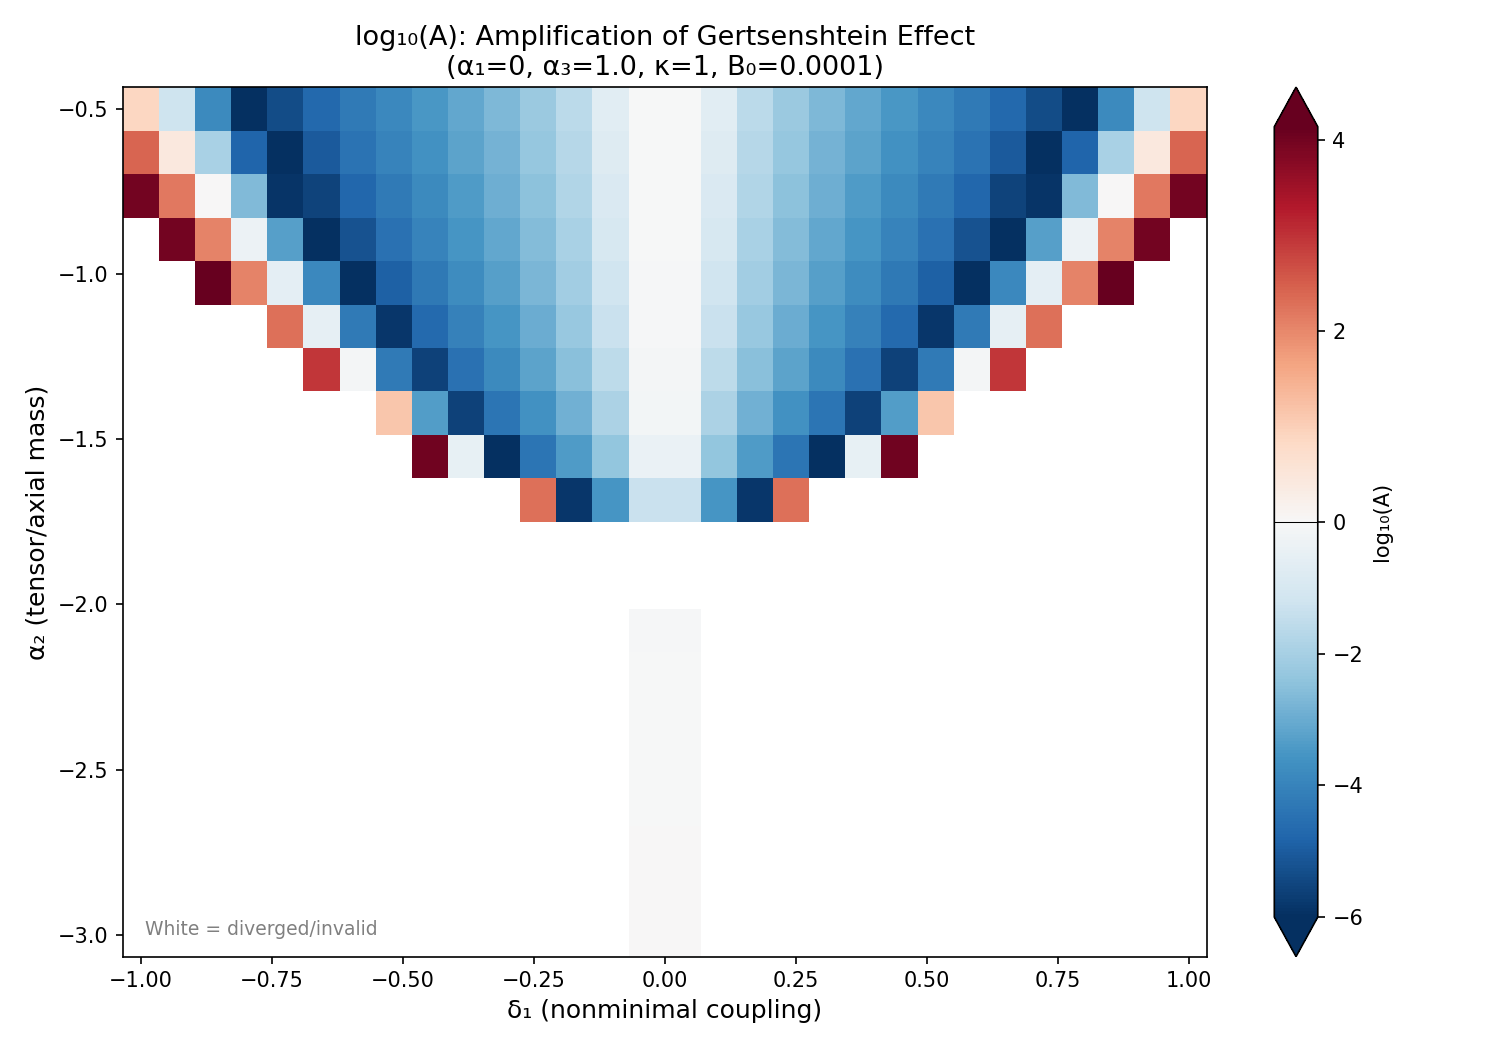
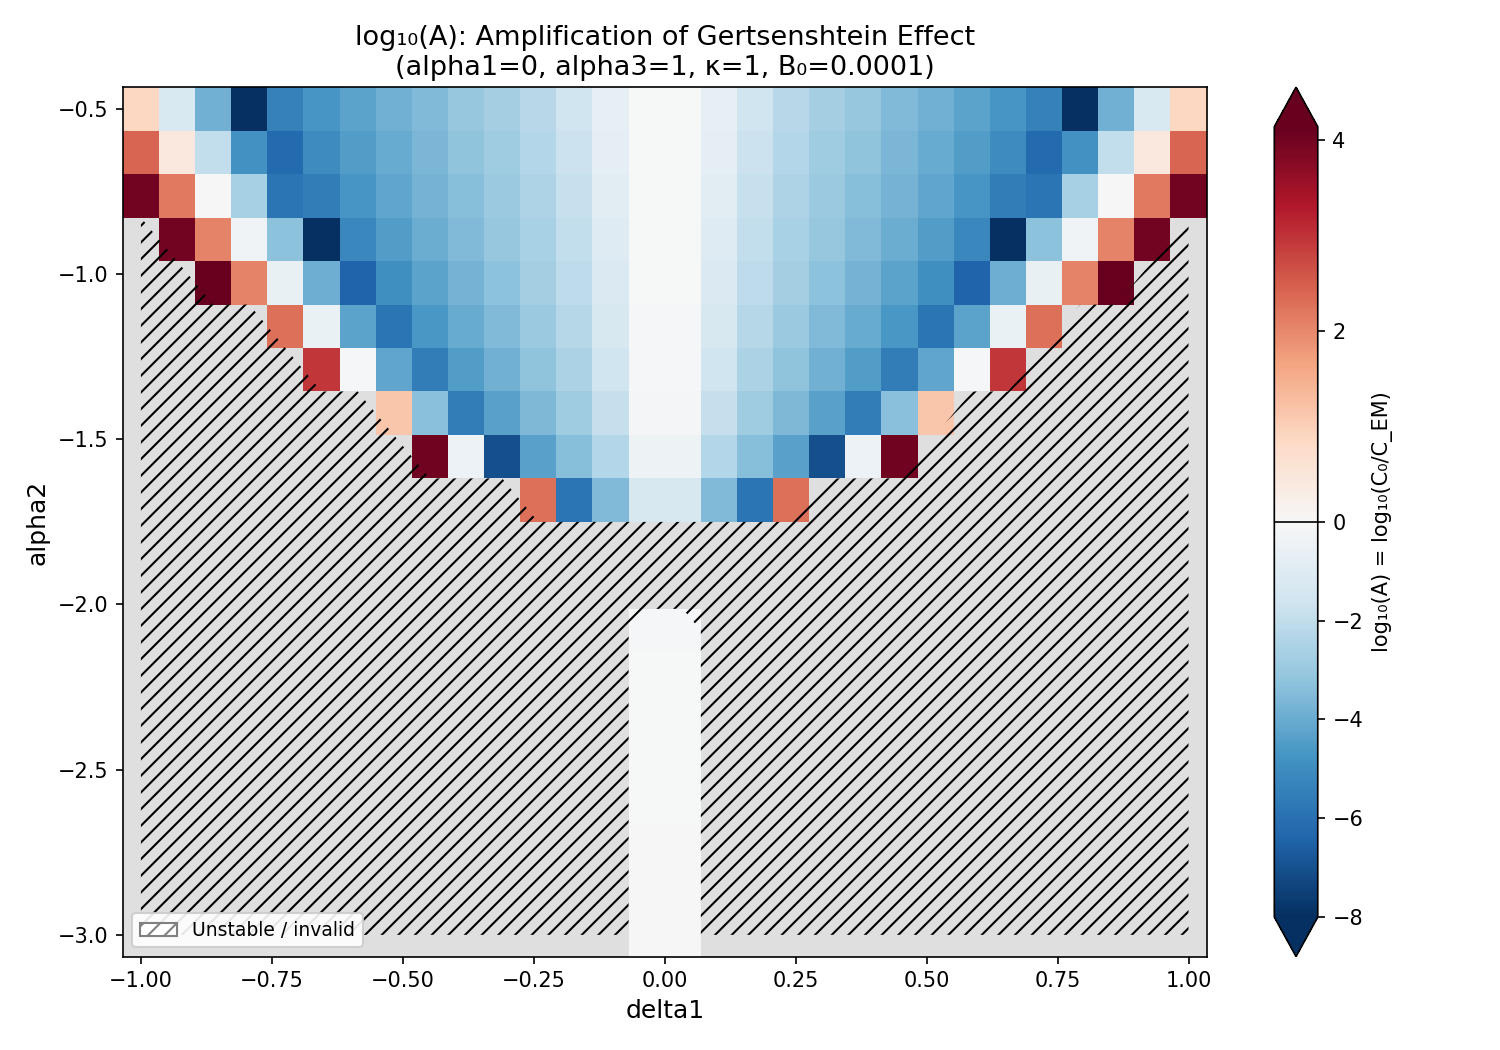
feat: hatched unstable regions in amplification heatmaps (#235)
plot_amplification_heatmap.py generates publication-quality heatmaps:
- RdBu_r divergent colormap centered on log10(A)=0 (A=1 baseline)
- Diagonal hatching (///) marks unstable/diverged/invalid regions
- Clear visual distinction from the A=1 white baseline
- Automatically reads sweep.json for parameter metadata
- Filters P > 0.1 as invalid (outside linear regime)

diff --git a/examples/torsion_gertsenshtein/plot_amplification_heatmap.py b/examples/torsion_gertsenshtein/plot_amplification_heatmap.py
@@ -1,0 +1,207 @@
+#!/usr/bin/env python3
+"""Generate amplification heatmap with stability boundary hatching.
+
+Produces a 2D heatmap of log₁₀(A) = log₁₀(C₀/C_EM) where:
+  A > 1 (red): torsion amplifies the Gertsenshtein effect
+  A = 1 (white): standard GR baseline
+  A < 1 (blue): torsion suppresses the Gertsenshtein effect
+  Hatched grey: unstable/diverged parameters (instability region)
+
+Usage:
+  python plot_amplification_heatmap.py <results_dir> [output.png]
+"""
+
+import csv
+import math
+import sys
+from pathlib import Path
+
+import matplotlib as mpl
+import numpy as np
+
+mpl.use("Agg")
+import contextlib
+
+import matplotlib.pyplot as plt
+from matplotlib.colors import TwoSlopeNorm
+from matplotlib.patches import Patch
+
+
+def main() -> None:
+    results_dir = Path(sys.argv[1])
+    output = sys.argv[2] if len(sys.argv) > 2 else str(results_dir / "heatmap_A.png")
+
+    csv_path = results_dir / "results.csv"
+    with Path(csv_path).open(encoding="utf-8") as f:
+        rows = list(csv.DictReader(f))
+
+    # Detect swept parameters (exactly 2 expected)
+    # Read sweep.json for parameter names
+    import json
+
+    with Path(results_dir / "sweep.json").open(encoding="utf-8") as f:
+        sweep_meta = json.load(f)
+
+    swept = sweep_meta.get("swept_parameters", sweep_meta.get("swept_params", {}))
+    param_names = list(swept.keys())
+    if len(param_names) != 2:
+        print(f"Expected 2 swept params, got {len(param_names)}: {param_names}")
+        sys.exit(1)
+
+    p1_name, p2_name = param_names
+
+    # Extract B0 from fixed params
+    fixed = {}
+    for r in rows[:1]:
+        for k, v in r.items():
+            if k not in {
+                p1_name,
+                p2_name,
+                "P_max",
+                "P_final",
+                "P_max_time",
+                "run_status",
+                "error_message",
+                "solver_exit_code",
+                "wall_time_s",
+                "grid_shape",
+                "t_end",
+                "dt",
+                "scheme",
+                "bc",
+                "C0",
+                "A",
+                "log10_A",
+                "P_valid",
+            }:
+                with contextlib.suppress(ValueError, TypeError):
+                    fixed[k] = float(v)
+    B0 = fixed.get("B0", 0.0001)
+    kappa = fixed.get("kappa", 1.0)
+    t_end = fixed.get("t_end", 50.0)
+    P_EM = math.sin(kappa * B0 * t_end / 2) ** 2
+
+    # Build grid
+    p1_vals = sorted({float(r[p1_name]) for r in rows})
+    p2_vals = sorted({float(r[p2_name]) for r in rows})
+    p1_idx = {v: i for i, v in enumerate(p1_vals)}
+    p2_idx = {v: i for i, v in enumerate(p2_vals)}
+    n1, n2 = len(p1_vals), len(p2_vals)
+
+    log10_A_grid = np.full((n2, n1), np.nan)
+    diverged_grid = np.zeros((n2, n1), dtype=bool)
+
+    for r in rows:
+        i = p2_idx[float(r[p2_name])]
+        j = p1_idx[float(r[p1_name])]
+
+        status = r.get("run_status", "success")
+        pmax_str = r.get("P_max", "")
+
+        if status != "success" or not pmax_str:
+            diverged_grid[i, j] = True
+            continue
+
+        pmax = float(pmax_str)
+        if pmax <= 0 or pmax >= 0.1:
+            # Invalid: either zero or outside linear regime
+            diverged_grid[i, j] = True
+            continue
+
+        A = pmax / P_EM
+        if A > 0:
+            log10_A_grid[i, j] = math.log10(A)
+
+    valid = log10_A_grid[np.isfinite(log10_A_grid)]
+    n_valid = len(valid)
+    n_diverged = int(diverged_grid.sum())
+    print(f"Grid: {n1}×{n2} = {n1 * n2} cells")
+    print(f"Valid: {n_valid}, Diverged/invalid: {n_diverged}")
+    if n_valid > 0:
+        print(f"log10(A) range: {valid.min():.1f} to {valid.max():.1f}")
+        print(f"A range: {10 ** valid.min():.2e} to {10 ** valid.max():.2e}")
+
+    # --- Plot ---
+    fig, ax = plt.subplots(figsize=(10, 7))
+
+    # Clamp color range for readability
+    vmin = max(valid.min(), -8) if n_valid > 0 else -5
+    vmax = min(valid.max(), 5) if n_valid > 0 else 5
+    # Ensure center is between vmin and vmax
+    if vmin >= 0:
+        vmin = -0.5
+    if vmax <= 0:
+        vmax = 0.5
+    norm = TwoSlopeNorm(vcenter=0, vmin=vmin, vmax=vmax)
+
+    # Main heatmap (valid data)
+    im = ax.pcolormesh(
+        p1_vals,
+        p2_vals,
+        log10_A_grid,
+        shading="nearest",
+        cmap="RdBu_r",
+        norm=norm,
+    )
+
+    # Hatched overlay for diverged/invalid regions
+    # Create a masked array: 1 where diverged, NaN where valid
+    hatch_grid = np.where(diverged_grid, 1.0, np.nan)
+    ax.pcolormesh(
+        p1_vals,
+        p2_vals,
+        hatch_grid,
+        shading="nearest",
+        cmap="Greys",
+        vmin=0,
+        vmax=2,
+        alpha=0.3,
+    )
+    # Add cross-hatching via contourf with hatch pattern
+    # Use a filled contour at the diverged boundary
+    X, Y = np.meshgrid(p1_vals, p2_vals)
+    ax.contourf(
+        X,
+        Y,
+        diverged_grid.astype(float),
+        levels=[0.5, 1.5],
+        colors="none",
+        hatches=["///"],
+    )
+
+    # Labels
+    ax.set_xlabel(f"{p1_name}", fontsize=12)
+    ax.set_ylabel(f"{p2_name}", fontsize=12)
+
+    # Build title from fixed params
+    fixed_str = ", ".join(
+        f"{k}={v:g}"
+        for k, v in sorted(fixed.items())
+        if k not in {p1_name, p2_name, "B0", "kappa"}
+        and k in {"alpha1", "alpha2", "alpha3", "xi"}
+    )
+    ax.set_title(
+        f"log₁₀(A): Amplification of Gertsenshtein Effect\n"
+        f"({fixed_str}, κ={kappa:g}, B₀={B0:g})",
+        fontsize=13,
+    )
+
+    # Colorbar
+    cb = fig.colorbar(im, ax=ax, label="log₁₀(A) = log₁₀(C₀/C_EM)", extend="both")
+    cb.ax.axhline(0, color="k", linewidth=0.8)
+
+    # Legend for hatching
+    handles = [
+        Patch(
+            facecolor="white", edgecolor="grey", hatch="///", label="Unstable / invalid"
+        ),
+    ]
+    ax.legend(handles=handles, loc="lower left", fontsize=9, framealpha=0.9)
+
+    plt.tight_layout()
+    plt.savefig(output, dpi=150)
+    print(f"Saved: {output}")
+
+
+if __name__ == "__main__":
+    main()
